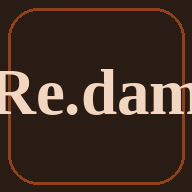
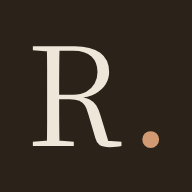
로고·앱 아이콘 교체: Re.dam 보통 굵기에 점만 흙빛
- 앱 아이콘 3개를 새 "R." 아이콘으로 교체, 브라우저 탭 아이콘(favicon) 추가
- 화면의 Re.dam 글씨를 보통 굵기로, 점만 흙빛(사진 위에서는 밝은 흙빛)
- 견적서 이미지의 Re.dam도 같은 모양으로

diff --git a/style.css b/style.css
@@ -611,6 +611,10 @@ input[type="text"]:focus, input[type="number"]:focus, select:focus, textarea:foc
     align-items: center;
 }
 
+/* 로고 Re.dam: 명조 보통 굵기, 색은 점에만 (밝은 바탕 흙빛 / 어두운 바탕·사진 위는 밝은 흙빛). 그러데이션·굵게·늘이기 금지 */
+.logo-dot { font-style: normal; color: #8a4a22; }
+.card-brand .logo-dot, #trackCurationSection:has(.bookmark-stage:not(.is-empty)) #brandMark .logo-dot { color: #d19a72; }
+
 /* 항상 보이는 브랜드 표시 (직원 모드 진입용 숨은 버튼 겸용) */
 #brandMark {
     position: fixed;
@@ -619,7 +623,7 @@ input[type="text"]:focus, input[type="number"]:focus, select:focus, textarea:foc
     z-index: 55;
     font-family: 'Noto Serif KR', Georgia, serif;
     font-size: 0.95rem;
-    font-weight: 700;
+    font-weight: 400;
     letter-spacing: 0.08em;
     color: var(--brand-muted);
     opacity: 0.6;
@@ -716,7 +720,7 @@ input[type="text"]:focus, input[type="number"]:focus, select:focus, textarea:foc
 /* 원단 화면에서는 Re.dam 표시를 마지막 칸 앞장 오른쪽 아래(뒤 색 띠 왼쪽)에 세로로 */
 .card-brand {
     position: absolute; right: 0.75rem; bottom: 2.4rem; z-index: 12; writing-mode: vertical-rl; line-height: 1;   /* 이름·1/n과 같은 아래선 */
-    font-family: 'Noto Serif KR', Georgia, serif; font-size: 0.85rem; font-weight: 700; letter-spacing: 0.2em;
+    font-family: 'Noto Serif KR', Georgia, serif; font-size: 0.85rem; font-weight: 400; letter-spacing: 0.2em;
     color: #fff; opacity: 0.7; text-shadow: 0 1px 6px rgba(0, 0, 0, 0.4); cursor: pointer; user-select: none; padding: 0.4rem 0.4rem 0;
 }
 .fab-band.is-last { padding-right: 2.7rem; }      /* 마지막 칸: 1/n이 Re.dam 왼쪽에 오도록 */
@@ -854,7 +858,7 @@ input[type="text"]:focus, input[type="number"]:focus, select:focus, textarea:foc
 .ask-opt.was-picked:hover .ask-label, .ask-opt.was-picked:active .ask-label { color: #91401a; border-color: #91401a; }
 
 /* ===== 첫 화면(고객 정보만) + 공간 화면. 둘 다 글 질문 화면과 같은 모양 (사진 칸 없음) ===== */
-.wel-brand { position: relative; z-index: 10; font-size: 3.2rem; font-weight: 700; color: #2b221a; letter-spacing: -0.02em; line-height: 1; cursor: pointer; }
+.wel-brand { position: relative; z-index: 10; font-size: 3.2rem; font-weight: 400; color: #2b221a; letter-spacing: 0.035em; line-height: 1; cursor: pointer; }
 .wel-sub { position: relative; z-index: 10; font-size: 0.95rem; color: #6f5f4f; margin: 0.9rem 0 2rem; }
 .wel-stage input.wel-input {
     position: relative; z-index: 10; display: block; width: 100%; max-width: 320px; margin-top: 0.5rem; padding: 0.75rem 0.2rem;
@@ -880,7 +884,7 @@ input[type="text"]:focus, input[type="number"]:focus, select:focus, textarea:foc
 .dos-stage { width: 100vw; height: 100vh; height: 100dvh; overflow-y: auto; -webkit-overflow-scrolling: touch; background: #fbf9f5; box-sizing: border-box; }
 .dos-sheet { width: 100%; max-width: 680px; margin: 0 auto; padding: 4.2rem 1.5rem 0; min-height: 100%; display: flex; flex-direction: column; box-sizing: border-box; color: #2b221a; }
 .dos-top { display: flex; justify-content: space-between; align-items: flex-end; }
-.dos-top h1 { font-size: 2.6rem; font-weight: 700; letter-spacing: -0.02em; line-height: 1; cursor: pointer; }
+.dos-top h1 { font-size: 2.6rem; font-weight: 400; letter-spacing: 0.035em; line-height: 1; cursor: pointer; }
 .dos-who { margin: 0.9rem 0 2.6rem; font-size: 1.1rem; color: #6f5f4f; }
 .dos-room { border-top: 2px solid #2b221a; padding-top: 1.1rem; margin-bottom: 1.6rem; }
 .dos-rhead { display: flex; justify-content: space-between; align-items: baseline; padding-bottom: 1rem; }

diff --git a/concierge.js b/concierge.js
@@ -387,7 +387,7 @@
             case "0-Welcome": {
                 const esc = v => String(v || '').replace(/"/g, '&quot;');
                 html += '<div class="ambient-stage ask-stage wel-stage">';
-                html += '<h1 class="wel-brand font-serif-kr" onclick="window.concierge.staffTap()">Re.dam</h1>';
+                html += '<h1 class="wel-brand font-serif-kr" onclick="window.concierge.staffTap()">Re<i class="logo-dot">.</i>dam</h1>';
                 html += '<p class="wel-sub font-serif-kr">빛과 결을 채워 넣는 비스포크 큐레이션</p>';
                 html += `<input type="text" id="cName_ui" class="wel-input font-serif-kr" value="${esc((document.getElementById('custName') || {}).value)}" placeholder="고객명 / 현장명 (선택)" oninput="window.concierge.setClientName(this.value)">`;
                 html += `<input type="tel" id="cPhone_ui" class="wel-input font-serif-kr" inputmode="numeric" autocomplete="off" value="${esc((document.getElementById('custPhone') || {}).value)}" placeholder="연락처 (선택)" oninput="window.concierge.setClientPhone(this)">`;
@@ -632,7 +632,7 @@
                 });
 
                 html += '<div class="dos-stage"><div class="dos-sheet">';
-                html += '<div class="dos-top font-serif-kr"><h1 onclick="window.concierge.staffTap()">Re.dam</h1></div>';
+                html += '<div class="dos-top font-serif-kr"><h1 onclick="window.concierge.staffTap()">Re<i class="logo-dot">.</i>dam</h1></div>';
                 html += `<p class="dos-who font-serif-kr">${currentCust && currentCust !== '고객' ? `${currentCust} 고객님` : '고객님'}의 공간</p>`;
                 html += roomsHtml;
                 // 다음 공간 자리: 공간 이름과 같은 자리·크기의 주황 밑줄 글자
@@ -765,7 +765,7 @@
         if (n > 1) h += `<span class="deck-count2" aria-label="${n}개 색 중 ${curIdx + 1}번째"><b>${curIdx + 1}</b><i></i><em>${n}</em></span>`;
         h += '</div>';
         // 마지막 칸에만 Re.dam 표시 (오른쪽 아래, 뒤 색 띠와 겹치지 않게 앞장 안에). 5번 누르면 직원 화면
-        if (isLast) h += '<div class="card-brand" onclick="event.stopPropagation(); window.concierge.staffTap()">Re.dam</div>';
+        if (isLast) h += '<div class="card-brand" onclick="event.stopPropagation(); window.concierge.staffTap()">Re<i class="logo-dot">.</i>dam</div>';
         h += '</div>';
         if (n > 1) {
             // 뒤 색 띠: 누르면 그 색이 앞으로 나옴 (앞 색을 한 번 더 누르면 선택)

diff --git a/index.html b/index.html
@@ -10,6 +10,7 @@
     <meta name="apple-mobile-web-app-status-bar-style" content="black-translucent">
     <meta name="theme-color" content="#281c15">
     <link rel="manifest" href="manifest.webmanifest">
+    <link rel="icon" href="favicon-32.png">
     <link rel="apple-touch-icon" href="icon-192.png">
     <meta name="application-name" content="Re.dam 견적기">
     <!-- Tailwind CSS & Custom Theme Config -->
@@ -93,7 +94,7 @@
         
         <div class="bg-white rounded-2xl p-3.5 sm:p-4 shadow-sm border border-slate-200 flex flex-wrap items-center justify-between gap-3">
             <div class="flex items-center gap-2.5 sm:gap-3 flex-1 min-w-[240px]">
-                <span class="font-serif-kr font-bold text-sm sm:text-base text-slate-800 tracking-tight flex-shrink-0">Re.dam</span>
+                <span class="font-serif-kr font-normal text-sm sm:text-base text-slate-900 flex-shrink-0">Re<i class="logo-dot">.</i>dam</span>
                 <input type="text" id="expressCustName" value="" placeholder="고객명/현장명 입력" class="w-full max-w-md px-3 py-1.5 border rounded-xl text-xs sm:text-sm font-bold text-slate-900 focus:ring-2 focus:ring-amber-500 outline-none bg-slate-50/70" oninput="document.getElementById('custName').value=this.value; syncCustomerData()">
                 <input type="tel" id="expressCustPhone" value="" inputmode="numeric" placeholder="연락처" class="w-36 flex-shrink-0 px-3 py-1.5 border rounded-xl text-xs sm:text-sm font-bold text-slate-900 focus:ring-2 focus:ring-amber-500 outline-none bg-slate-50/70" oninput="this.value=formatPhone(this.value); document.getElementById('custPhone').value=this.value">
             </div>
@@ -483,7 +484,7 @@
         <main id="v2Viewport"></main>
 
         <!-- 모든 고객 화면에 항상 있는 브랜드 표시. 5번 연속 탭하면 직원 PIN 창이 열립니다. -->
-        <div id="brandMark" onclick="window.concierge.staffTap()">Re.dam</div>
+        <div id="brandMark" onclick="window.concierge.staffTap()">Re<i class="logo-dot">.</i>dam</div>
 
         <!-- v2 전용 가상 키패드 시트 -->
         <div id="v2VirtualKeypadSheet" class="keypad-sheet">

diff --git a/app.js b/app.js
@@ -1547,7 +1547,11 @@ function drawTicket(ctx, data, W) {
 
     // 머리글 + 표 머리 (페이지마다 같은 모양)
     function hdr() {
-        setFont(700, 66, SERIF); text('Re.dam', CX, 158, 'left', DARK);
+        // 로고: 명조 보통 굵기, 점만 흙빛 (세 조각으로 나눠 그림)
+        setFont(400, 66, SERIF); spacing('2.3px');
+        const wRe = ctx.measureText('Re').width, wDot = ctx.measureText('Re.').width;
+        text('Re', CX, 158, 'left', DARK); text('.', CX + wRe, 158, 'left', '#8a4a22'); text('dam', CX + wDot, 158, 'left', DARK);
+        spacing('0px');
         setFont(600, 32, SERIF);
         if (canSpace) { spacing('18px'); text('견적서', RX + 18, 152, 'right', DARK); spacing('0px'); }
         else text('견 적 서', RX, 152, 'right', DARK);
